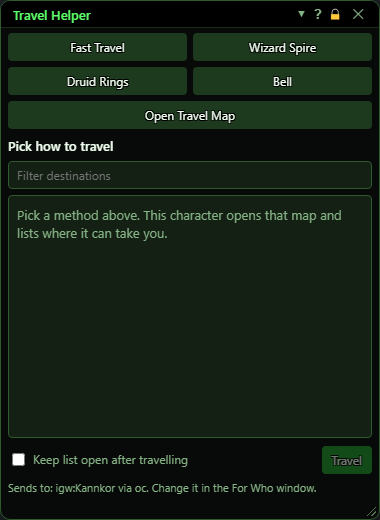
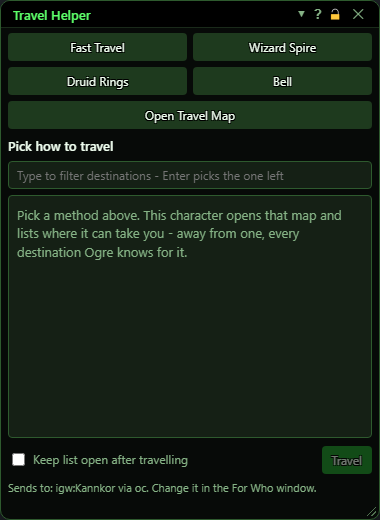
New OgreBot docs: publish the "OgreBot" section (EQ2/bot/)
Generated output from the private docs source (Scripts 614b5014c+uncommitted); linted for gated names, mkdocs build --strict and link check green.

diff --git a/docs/EQ2/bot/whats-new.md b/docs/EQ2/bot/whats-new.md
@@ -10,6 +10,27 @@ A release is named by the day it was published and its number that day: **2026.1
 
 Dates and times are US Eastern time (EST in winter, EDT in summer).
 
+## 2026.11.18.001 {#r2026-11-18-001}
+
+*Wednesday, November 18, 2026 at 3:14 PM EST*
+
+- **New** · Bot: **Cast Stack items can use conditions.** An item in the Cast Stack can now use the same conditions as an ability: My HP, My MP, NPC HP, Aggro and Fervor (and Savagery or Dissonance on those classes). The item is used only when they hold.
+- **New** · Bot: **Pass LORE items can now work in a raid.** A new box under Pass LORE items I already have to the group, Allow in a raid, lets the hand-out work in a raid too: the bot asks the whole raid, and copies go to raid members in raid order. It is off by default, so raid loot stays yours to hand out.
+- **Changed** · Bot: **Cast Stack tells "line of sight blocked" from "out of range"; Dry-Run shows distance.** An ability whose target was close enough, but out of sight, was skipped as "out of range". It now says "line of sight blocked", for your target, your pet and a body to res. The Cast-Stack Dry-Run on the Debug tab now shows each target's distance and the ability's reach, and marks a blocked line of sight.
+- **Changed** · Bot: **MCP buttons sent over IRC put the For Who (-cfw) at the end of the line.** A button sent over IRC put `-cfw <who>` before its first command, while the same button sent on this PC showed it at the end. It now goes at the end on both, so a line reads the same either way.
+- **Fixed** · Bot: **A mercenary no longer counts as @Healer1, @Tank or another role.** A mercenary in your group could be picked as @Healer1 (or @Tank, @DPS1 and the others), and a buff aimed at that role was then sent to the merc over and over without ever landing. Roles are filled only by players again, in the Cast Stack and in For Who.
+- **Fixed** · Bot: **For Who window - picking two or more raid groups reaches every picked group.** With Multi on, picking G2 and G3 in the For Who window reached nobody: it asked for characters in raid group 2 and raid group 3 at once. The picked groups now go out together as one choice, so each character in any picked group runs the command.
+- **Fixed** · Bot: **Group-only buffs no longer try raid members in other groups.** A single-target buff the game lets you cast only on your own group (like the Inquisitor's Tenacity), aimed at a character by name, was tried on that character when they were in another group of your raid. Now it is cast only when they are in your group; buffs and heals that can reach the whole raid still do.
+- **Fixed** · Bot: **Heals and cures on your mercenary land; buffs no longer target mercenaries.** A heal, cure or buff the Cast Stack aimed at a mercenary was sent the way it is sent to a player, which the game ignores, so it never landed and was sent again and again. Heals and cures on your own mercenary now use the game's mercenary command and land. Single-target buffs no longer target mercenaries, and another player's mercenary is not a target.
+- **Fixed** · Bot: **IRC - a line with several -auth (or other IRC link commands) runs every one.** A line such as `!c all -auth A_IRC -auth B_IRC` only authorized the first name, and when your own name came first your own PC authorized nobody. Every `-auth`, `-unauth` and other IRC link command on the line now runs, each with the name after it. A line with no IRC name before the command, such as an MCP button's `!c -cfw <who> -auth A_IRC`, now reaches every PC's link.
+- **Fixed** · Bot: **IRC - a second PC can send through another PC's IRC link (Uplink name).** The Uplink name on the OgreConsole tab was saved but never used, so a second PC with no IRC connection of its own could not send IRC commands. Set it to the other PC's InnerSpace uplink name and this PC's IRC lines, MCP IRC buttons and Auth raid go out through that PC's link. Leave it blank to use this PC's own link.
+- **Fixed** · Bot: **Several copies of a LORE item in one chest no longer all go to you.** When a chest held several copies of a LORE item you did not have yet, the bot tried to loot every copy to you; the game refused the extras, and some chests closed with other loot still inside. Now you take one copy and the rest are passed to the group when Pass LORE items I already have to the group is ticked. This also works with Loot Distribution ticked.
+- **Fixed** · Windows: **The Travel Helper lists destinations when you are away from the bell.** The bell, druid ring and wizard spire buttons in the Travel Helper no longer need the character who clicks them to stand at the bell, ring or spire. Away from one, the window lists every destination Ogre knows for it, and your group travels there as usual. Press Enter in the filter box to pick the one destination left.
+- **Fixed** · Instance Controller: **After a wipe, the Instance Controller starts the interrupted step over.** After a wipe, the restart could pick up the step it was on as if no time had passed: a named fight waited for a named nobody was fighting until someone pulled it by hand, and a trash clear or hunt could fail or time out at once. Now a wipe starts that step over (the walk, the buff-up and the pull), and a named that died before the wipe still counts as dead. Stopping a run during a hunt also turns the hunt's AutoTarget changes back.
+- **Fixed** · Instance Controller: **Skip shinies in the Instance Controller now leaves the trash's shinies too.** With Skip shinies ticked, the shinies steps took nothing, but the setup list unticked each character's Do NOT loot shinies box at every zone start, so the bot still looted every shiny the trash dropped. Now Skip shinies ticks that box for the group, after the setup list and at once when you tick it during a run. The profile reload at the end of the run puts each character's own setting back.
+- **Fixed** · Navigation: **Navigation - a flight stuck in the air is noticed sooner.** A mount that stopped moving in the air but kept bobbing up and down a few units counted the bobbing as progress, so the bot took about 20 seconds longer to notice it was stuck and start climbing out. Height now counts only when the flight reaches a height it has not already been at, so real climbs and landings still count and bobbing in place does not.
+- **Fixed** · Navigation: **Navigation - two failure messages now say what really happened.** When a flight stayed stuck in the air after its last climb, the log printed one more "climbing over it" line for a climb that never happened. It now says the climbs did not clear it. When a trip found no route after a failed step, the message counted unrelated requirements; it now also counts the ways this trip already tried and failed, which is usually the real reason.
+
 ## 2026.11.17.003 {#r2026-11-17-003}
 
 *Tuesday, November 17, 2026 at 11:57 PM EST*

diff --git a/docs/EQ2/bot/windows/ic.md b/docs/EQ2/bot/windows/ic.md
@@ -138,7 +138,7 @@ When the window is too short for every option, the option grid scrolls (the list
 | **Stay until a zone is ready** | When a zone's steps are done, before the zone-out, the group waits INSIDE the zone until a zone still on the list can be run: not locked, or resettable. The zone you are in counts too: it is zoned out of, reset and run again. The lockout table is read once; when nothing is ready, it is read again when the first lockout among those zones ends. Untick it to let the group go.<br>*Not used when Call to GH after each zone is on, or when Stop after this zone is ticked (there is no next zone to wait for). Also a console switch: `ogre ic -stayInZoneUntilZoneReady` (`=off` turns it off).* | off |
 | **After a lost zone: Call to guild hall / Call to home / nothing** | When a zone is given up because all its wipe-recovery tries are used: everyone is revived first (up to 60 seconds), then this runs. 'Call to guild hall' = go to the guild hall (GetToGH), up to 180 seconds. 'Call to home' = cast Call to Home, up to 90 seconds. 'nothing' = revive only. The list then moves on to the next row.<br>*A zone file with its own after-wipe list replaces this completely. Also a console switch: `ogre ic -afterWipe=callgh` (or `callhome`, `none`).* | Call to guild hall (callgh) |
 | **Skip the boss** | A named that the zone file marks as the boss is not fought. It ends as 'skipped - Do NOT Kill Boss is on'.<br>*Only affects nameds the zone file marks as the boss. Also a console switch: `ogre ic -skipBoss` (`=off` turns it off).* | off |
-| **Skip shinies** | No shiny is looted at all: every shinies step of the zone file ends at once as 'skipped - the Skip shinies option is on'.<br>*Wins over whatever the zone file says about no-trade shinies. Also a console switch: `ogre ic -skipShinies` (`=off` turns it off).* | off |
+| **Skip shinies** | No shiny is looted at all: every shinies step of the zone file ends at once as 'skipped - the Skip shinies option is on', and the group's OgreBot **Do NOT loot shinies** box (Loot tab) is ticked for the run, so the shinies the trash drops are left too.<br>*Wins over whatever the zone file says about no-trade shinies, and over the setup list's row that unticks Do NOT loot shinies: the box is ticked after the list, at every zone start, and at once when you tick Skip shinies during a run. The profile reload at the run's end puts each character's own box back. Also a console switch: `ogre ic -skipShinies` (`=off` turns it off).* | off |
 | **Pause for no-trade shinies** | For the whole IC run, whenever the auto-loot harvests a shiny whose loot window holds a no-trade item, that item is NOT looted: the rest of the window is taken, the no-trade item is left in it with the window open for you, and IC pauses itself (the group keeps playing), with a console message and a '<name> shiny' text-to-speech. Take the item, then press Resume. Only shinies: corpses and chests loot as your settings say.<br>*A zone file that sets its own no-trade rule on the step overrides this option. Also a console switch: `ogre ic -pauseForNoTradeShinies` (`=off` turns it off).* | off |
 | **Do not loot no-trade boss chest** | When the step for a named the zone file marks as the boss begins (before the kill), your Leader Only loot is set to take tradable items and Smart Loot only (not loot everything, no distribution, not in combat); your loot options are put back after the loot step. A Leader Only loot window that still holds a no-trade item is left open for you, with a console message and a '<name> boss chest' text-to-speech, and IC waits until it is gone.<br>*Free For All windows are not touched - each character's own loot options take them. Non-boss chests loot no-trade items as usual unless the zone file says otherwise. The zone file's own no-trade rule overrides this. Also a console switch: `ogre ic -doNotLootNoTradeBossChest` (`=off` turns it off).* | off |
 

diff --git a/docs/EQ2/bot/windows/travel.md b/docs/EQ2/bot/windows/travel.md
@@ -11,15 +11,16 @@
 > **What you can do here**
 >
 > - **Fast Travel, Wizard Spire, Druid Rings, Bell** - this character opens that map (standing by the spire, ring or bell for those three), reads every destination and lists them. The map closes again.
+> - **Not near a spire, ring or bell?** The list is every destination Ogre knows for that network, and the window says so. Pick one and your group travels as usual - this character does not need to be there. A character whose own map does not offer it says so in its console.
 > - **Open Travel Map** - lists the travel map you already have open, and leaves it open.
 > - **Double-click a destination**, or select it and press **Travel** - everyone in the Master Control Panel's For Who window travels there. Each opens their own map and clicks that exact destination.
-> - **Filter** - type part of a name to shorten the list.
+> - **Filter** - type part of a name to shorten the list. **Enter** picks the destination when only one is left.
 > - **Keep list open after travelling** - leave this window up after you pick.
 >
 > **Good to know**
 >
 > - If the For Who window was never set, everyone travels.
-> - Spire, ring and bell travel needs that object within reach of every character you send.
+> - Spire, ring and bell travel needs that object within reach of every character you send - but not of the character who picks.
 > - With Open Travel Map, everyone you send must have their own map open too.
 
 **Open it:** Type `ogre travel`. Add a method to open it straight on that list: `ogre travel fast`, `ogre travel spire`, `ogre travel druid`, `ogre travel bell` or `ogre travel map`. A Master Control Panel button migrated from the old bot's Travel Helper opens it too. `ogre end travel` (or the window's X) stops a list that is being read, closes the map it opened, and closes the window.
@@ -52,8 +53,8 @@ The list shows every destination the map offers, in the map's order. Type in the
 
 | Control | What it does |
 |---|---|
-| **Filter destinations** | Shows only the destinations whose name contains what you type. |
-| **Destination list** | Click a destination to select it. Double-click it to travel there. |
+| **Filter destinations** | Shows only the destinations whose name contains what you type. Enter picks the destination when only one is left (or the selected one). |
+| **Destination list** | Click a destination to select it. Double-click it to travel there. Away from a spire, ring or bell, it lists every destination Ogre knows for that network (from its travel data) and says so: each character you send picks it on its own map. |
 | **Travel** | Sends everyone in the For Who window to the selected destination.<br>*Each character opens its own map and clicks exactly that destination - the whole name, not part of it.* |
 | **Keep list open after travelling** | Leaves this window open after you send the group. Off, it closes once you pick. |
 

diff --git a/docs/EQ2/bot/ogrebot/cast-stack.md b/docs/EQ2/bot/ogrebot/cast-stack.md
@@ -51,7 +51,7 @@ The Cast Stack is the bot's main casting list. Every turn the bot walks the Cast
 
 - Types, in short. Buff: kept up, re-cast when it drops. NonCombatBuff: the same, but only while you are out of combat. Combat: only while the target is in combat. Heal / PowerHeal: when the target's health / power is at or below the HP / Mana %. Cure / CureCurse: when someone has something that ability can remove / a curse. Res: resurrects a dead player. CA and Debuff: attacks on your target; NamedCA and NamedDebuff only on named mobs, NonNamedCA only on non-named mobs. Special / Custom: advanced types that are cast when ready.
 - The Type list only offers the types that fit the ability (a resurrection only offers Res, a buff offers Buff or NonCombatBuff). Items offer the 12 basic types. If your ability export is missing, every type is offered.
-- Fields appear and disappear with the Type: Target only shows where you can choose one (attacks always go at your target), '# of ppl' / '# of mobs' only for group or area abilities, HP / Mana % only for heals, Savagery only for Beastlords, Diss only for Channelers. Items follow their Type too: Target for all but attacks, HP / Mana % only for heals, '# of ppl' for cures, plus Requires Item Equipped and the tags.
+- Fields appear and disappear with the Type: Target only shows where you can choose one (attacks always go at your target), '# of ppl' / '# of mobs' only for group or area abilities, HP / Mana % only for heals, Savagery only for Beastlords, Diss only for Channelers. Items follow their Type too: Target for all but attacks, HP / Mana % only for heals, '# of ppl' for cures, plus the conditions (My HP, My MP, NPC HP, Aggro, Fervor), Requires Item Equipped and the tags.
 - When you press Add or Update, values in fields that are hidden for the chosen Type are thrown away.
 - If a required field is missing, Add / Update does nothing and a message lists what is wrong.
 - Cast order colours: gold = Buff or NonCombatBuff, blue = Combat, light red = CA, red = NamedCA, pink = NonNamedCA, orange = Debuff, dark orange = NamedDebuff, magenta = Res, dark green = Cure, teal = CureCurse, bright green = Heal, cyan = PowerHeal, light cyan = Custom, lavender = Special. Pale yellow means this character does not have that ability (or the item is not in your bags or gear) right now. A switched-off entry keeps its colour but is struck through and dimmed.

diff --git a/docs/EQ2/bot/ogrebot/debug.md b/docs/EQ2/bot/ogrebot/debug.md
@@ -60,7 +60,7 @@ Debug holds switches that make the bot explain itself. Each box turns on extra l
 
 | Option | What it does | Default |
 |---|---|---|
-| **Evaluate every cast-order entry vs the live game state - what each would do right now (dry-run, never casts)** | One row per Cast Stack entry, in order: its number, its name, then 'WOULD CAST' in green (with the target), or the reason it would be skipped, such as 'recast delay still active' or 'no valid target'. Switched-off entries are greyed. The last column sums up the entry's settings. | empty until you press Evaluate |
+| **Evaluate every cast-order entry vs the live game state - what each would do right now (dry-run, never casts)** | One row per Cast Stack entry, in order: its number, its name, then 'WOULD CAST' in green (with the target), or the reason it would be skipped, such as 'recast delay still active' or 'no valid target'. When the entry has a target, it shows how far away that target is and, for an ability, the reach it must be under (the target's size, plus the ability's range, plus your own size). It also says 'sight blocked' when the line of sight to the target is blocked. Hover the numbers to see each part. Switched-off entries are greyed. The last column sums up the entry's settings. | empty until you press Evaluate |
 
 
 

diff --git a/docs/EQ2/bot/ogrebot/ogreconsole.md b/docs/EQ2/bot/ogrebot/ogreconsole.md
@@ -27,7 +27,7 @@ OgreConsole is the window where Ogre shows messages from all your characters. Th
 | Option | What it does | Default |
 |---|---|---|
 | **Connect to IRC** | Connects to IRC each time this profile loads, and when you press 'Save OgreIRC information'. This box is saved per character profile, unlike the IRC details below.<br>*Unticking it never disconnects. By hand: `ogre irc` connects, `ogre end irc` disconnects.* | off |
-| **Uplink name:** | **Not built yet.** It is saved, but the IRC link always runs on this PC's own uplink. | empty |
+| **Uplink name:** | Which PC's IRC link this PC uses: the InnerSpace name of that PC's uplink (InnerSpace's Remote name). Blank = this PC's own. On a second PC whose uplink is connected to the first, name the first: its IRC commands and MCP IRC buttons go out through the first PC's link, and it reads that link's connected state, with no IRC connection of its own. | empty (this PC's own uplink) |
 | **Server:** | The IRC server address to connect to. Required. | empty |
 | **Server port:** | The server's port. 6667 unless your server says otherwise. | 6667 (used when blank or invalid) |
 | **Server password:** | The server's password, if it has one. Leave blank if not.<br>*Shown as plain text on screen.* | empty |
